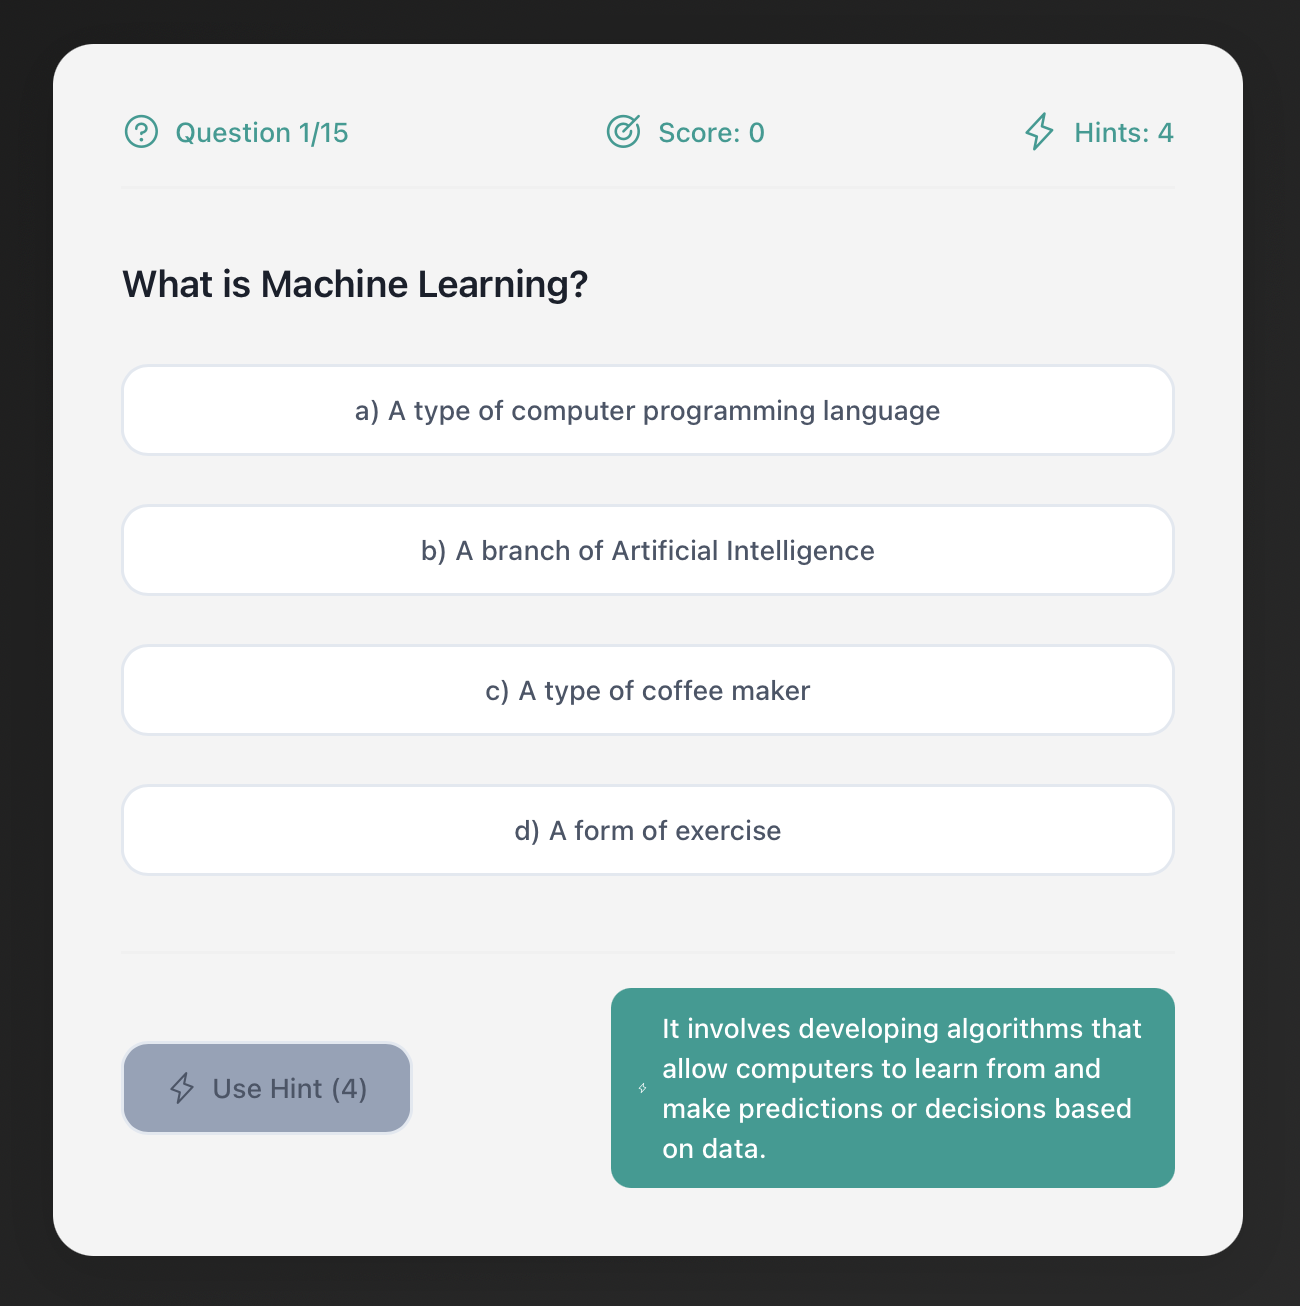
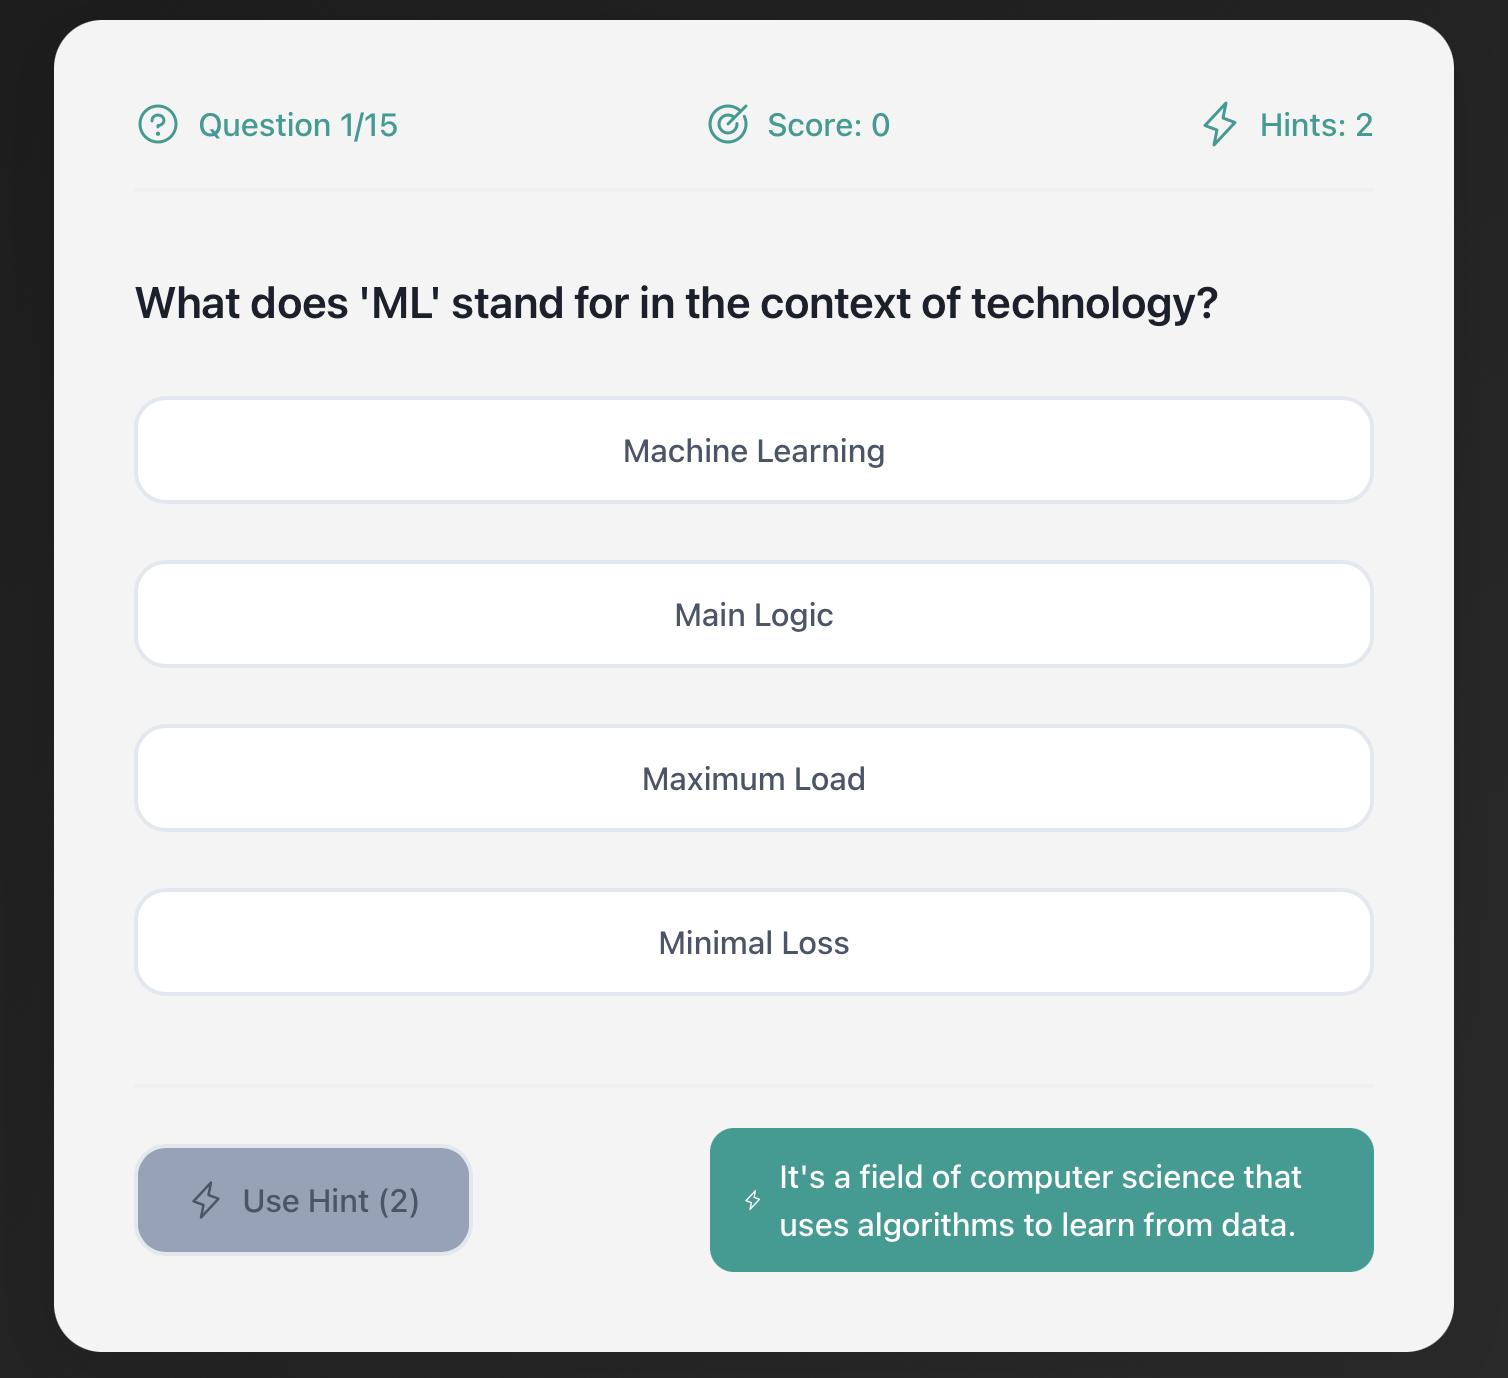
updated screenshot

diff --git a/README.md b/README.md
@@ -11,7 +11,7 @@ An interactive quiz application that generates personalized questions based on a
 1. Enter a topic of your choice or select from suggested topics
 2. Provide your OpenAI API key
 3. Answer 15 questions of increasing difficulty
-4. Use hints strategically (5 available per game)
+4. Use hints strategically (3 available per game)
 5. Try to achieve the highest score possible
    
 
